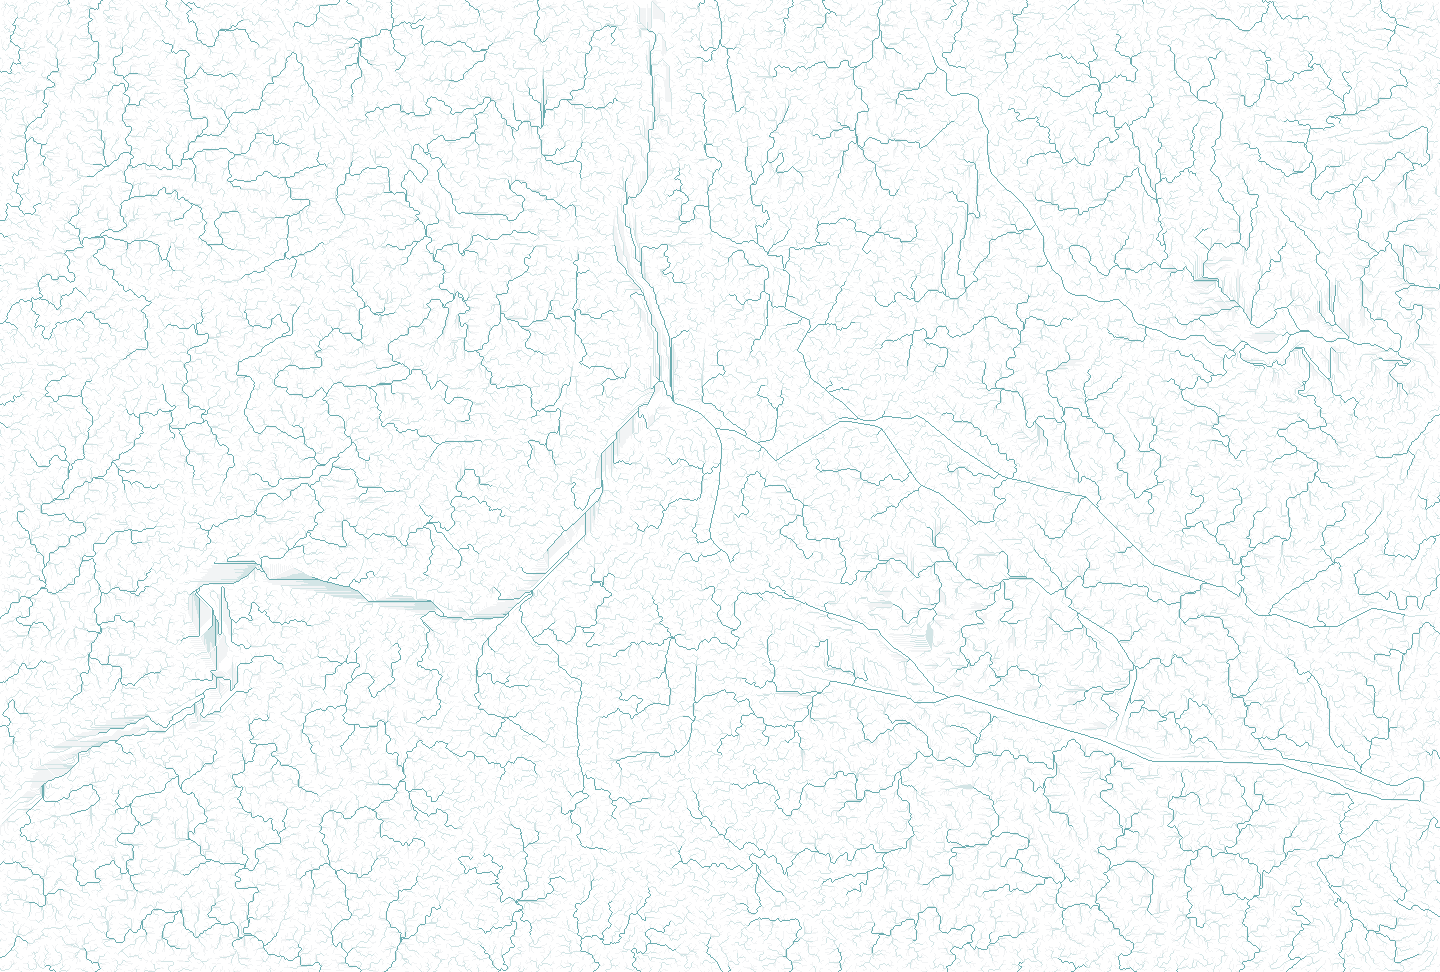
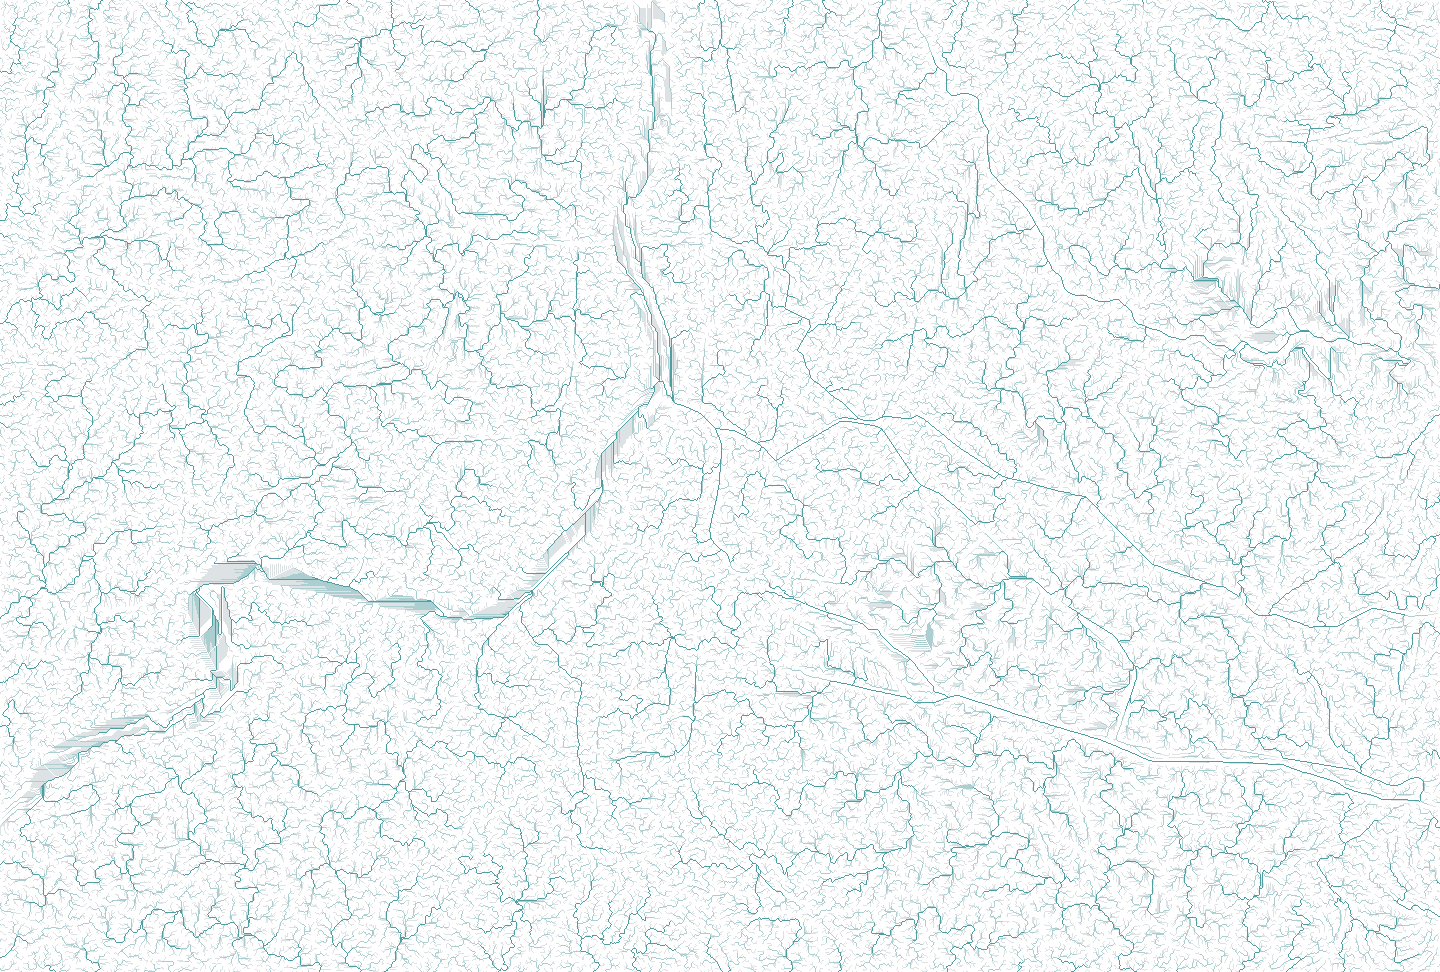
Eyes without a face

diff --git a/src/routes/kolkata-water-log/+page.svelte b/src/routes/kolkata-water-log/+page.svelte
@@ -6,7 +6,6 @@
 
 	let mapNode: HTMLDivElement;
 	let map: import('maplibre-gl').Map | null = null;
-	let markers: import('maplibre-gl').Marker[] = [];
 	let opacity = $state(100);
 	let open = $state(false);
 	let screen = $state<'index' | 'report' | 'method'>('index');
@@ -65,15 +64,28 @@
 				if (vector) try { map.addLayer({ id: 'buildings', type: 'fill-extrusion', source: vector, 'source-layer': 'building', minzoom: 14, paint: { 'fill-extrusion-color': '#d8d2c5', 'fill-extrusion-height': ['coalesce', ['get','render_height'], ['get','height'], 7], 'fill-extrusion-base': 0, 'fill-extrusion-opacity': .45 } }, labels); } catch { /* style schema varies */ }
 				map.addSource('water-model', { type: 'image', url: '/data/kolkata-water-log/accumulation.png', coordinates: [[bounds.west,bounds.north],[bounds.east,bounds.north],[bounds.east,bounds.south],[bounds.west,bounds.south]] });
 				map.addLayer({ id: 'water', type: 'raster', source: 'water-model', paint: { 'raster-opacity': opacity / 100, 'raster-resampling': 'nearest', 'raster-fade-duration': 250, 'raster-contrast': 0.35, 'raster-saturation': 0.45 } }, labels);
-				for (const report of waterLogReports) {
-					const el = document.createElement('button'); el.className = 'water-marker'; el.innerHTML = `<span>${report.name}</span>`; el.ariaLabel = `Open reports for ${report.name}`;
-					el.onclick = (event) => { event.stopPropagation(); choose(report); };
-					markers.push(new ml.Marker({ element: el, anchor: 'left', offset: [0,-10], pitchAlignment: 'viewport', rotationAlignment: 'viewport', subpixelPositioning: false }).setLngLat(report.coordinates).addTo(map));
+				// Map-native features stay locked to geographic coordinates. DOM markers
+				// visibly drift when a pitched WebGL map is panned or zoomed.
+				map.addSource('water-reports', {
+					type: 'geojson',
+					data: { type: 'FeatureCollection', features: waterLogReports.map((report, index) => ({ type: 'Feature', geometry: { type: 'Point', coordinates: report.coordinates }, properties: { index, name: report.name } })) }
+				});
+				map.addLayer({ id: 'report-points', type: 'circle', source: 'water-reports', paint: { 'circle-radius': 6, 'circle-color': '#286c72', 'circle-stroke-color': '#ffffff', 'circle-stroke-width': 2, 'circle-pitch-alignment': 'map' } });
+				map.addLayer({ id: 'report-labels', type: 'symbol', source: 'water-reports', layout: { 'text-field': ['get','name'], 'text-size': 12, 'text-font': ['Noto Sans Regular'], 'text-anchor': 'left', 'text-offset': [0.8,0], 'text-allow-overlap': false, 'text-pitch-alignment': 'viewport', 'text-rotation-alignment': 'viewport' }, paint: { 'text-color': '#173f42', 'text-halo-color': 'rgba(255,255,255,0.96)', 'text-halo-width': 2.5, 'text-halo-blur': 0.5 } });
+				const openReport = (event: import('maplibre-gl').MapLayerMouseEvent) => {
+					const reportIndex = Number(event.features?.[0]?.properties?.index);
+					if (Number.isInteger(reportIndex) && waterLogReports[reportIndex]) choose(waterLogReports[reportIndex]);
+				};
+				map.on('click', 'report-points', openReport);
+				map.on('click', 'report-labels', openReport);
+				for (const layerId of ['report-points','report-labels']) {
+					map.on('mouseenter', layerId, () => { if (map) map.getCanvas().style.cursor = 'pointer'; });
+					map.on('mouseleave', layerId, () => { if (map) map.getCanvas().style.cursor = ''; });
 				}
 			});
 			map.on('moveend', () => { if (!map) return; const c = map.getCenter(); history.replaceState(null, '', `#${map.getZoom().toFixed(2)}/${c.lat.toFixed(5)}/${c.lng.toFixed(5)}/${map.getBearing().toFixed(0)}/${map.getPitch().toFixed(0)}`); });
 		});
-		return () => { disposed = true; markers.forEach((m) => m.remove()); map?.remove(); map = null; };
+		return () => { disposed = true; map?.remove(); map = null; };
 	});
 </script>
 
@@ -118,8 +130,8 @@
 	.mark,.locate{position:absolute;z-index:10;border:1px solid #d3d3d0;border-radius:.45rem;background:#fff;box-shadow:0 6px 20px #0004}.mark{left:1rem;bottom:1rem;display:flex;align-items:center;gap:.5rem;padding:.35rem .55rem;color:inherit;text-decoration:none}.mark>b{display:grid;place-items:center;width:2.2rem;height:2.2rem;border-radius:.25rem;background:#74b1b5;color:white;font-size:1.35rem}.mark small,.mark strong{display:block}.mark small{font-size:.58rem}.mark strong{font:.7rem var(--font-mono);text-transform:uppercase}.locate{right:1rem;top:1rem;display:flex;align-items:center;gap:.4rem;padding:.5rem .7rem;color:#356f73;cursor:pointer}.locate b{font-size:1.3rem}.locate span{font-weight:700}
 	.drawer{position:absolute;z-index:20;left:50%;bottom:0;width:min(44rem,calc(100% - 1.5rem));height:min(35rem,72dvh);transform:translate(-50%,calc(100% - 5.5rem));transition:transform .4s cubic-bezier(.22,.8,.22,1);border-radius:1.2rem 1.2rem 0 0;background:white;box-shadow:0 -10px 35px #0003}.drawer.open{transform:translate(-50%,0)}.trigger{width:100%;height:5.5rem;border:0;border-radius:inherit;background:white;cursor:pointer}.trigger>b{display:block;width:3rem;height:.35rem;margin:.9rem auto 0;border-radius:1rem;background:#d4d4d4}.minimise{position:absolute;z-index:3;right:.85rem;top:.7rem;padding:.35rem .55rem;border:1px solid #d6d9d7;border-radius:999px;background:#fff;color:#397b80;font:700 .62rem var(--font-mono);cursor:pointer}.legend{display:flex;justify-content:center;align-items:center;gap:.4rem;color:#56605f;font:600 .68rem var(--font-sans)}.legend i{width:1.1rem;height:1.1rem;border-radius:.15rem}.low{background:#c4cdd0}.mid{background:#abced0}.high{background:#519ea2}.body{height:calc(100% - 5.5rem);overflow:hidden;border-top:1px solid #eee}.screen{height:100%;overflow:auto;animation:appear .3s}.screen-head{display:flex;justify-content:space-between;align-items:center;margin:0 1rem;padding:1rem 0;border-bottom:1px solid #e6e6e3}.screen-head h2{margin:0;font-size:1.7rem}.screen-head p{margin:.2rem 0;color:#767d7c}.screen-head button,.browse button{padding:.6rem .9rem;border:1px solid #ddd;border-radius:.45rem;background:#f5f5f3;font-weight:700;cursor:pointer}
 	.intro{display:grid;grid-template-columns:1.1fr .9fr;gap:1rem;padding:1rem}.eyebrow{margin:0;color:#397b80;font:700 .7rem var(--font-mono);text-transform:uppercase}.intro h2{margin:.25rem 0 .5rem;font-size:1.7rem;line-height:1.05}.intro p{color:#646c6b}.diagram{position:relative;overflow:hidden;min-height:9rem;border-radius:.5rem;background:linear-gradient(#dce8e6,#f7f5e7)}.diagram span{position:absolute;left:-10%;right:-10%;bottom:-4rem;height:9rem;border-radius:50%;background:#88aa94}.diagram b{position:absolute;z-index:2;left:43%;bottom:0;width:16%;height:55%;clip-path:polygon(35% 0,65% 0,100% 100%,0 100%);background:#5d9da8}.diagram i{position:absolute;z-index:3;top:-2rem;width:2px;height:1.5rem;background:#519ea2;animation:rain 1.5s infinite}.diagram i:nth-child(1){left:25%}.diagram i:nth-child(2){left:55%;animation-delay:.5s}.diagram i:nth-child(3){left:80%;animation-delay:1s}.browse{display:grid;grid-template-columns:.4fr .6fr;gap:1rem;padding:0 1rem 1rem}.browse>div{display:flex;flex-direction:column;align-items:flex-start;justify-content:space-between;color:#737b7a}.browse>div p{margin:0}.browse>div button{padding:.5rem 0;border:0;background:none;text-decoration:underline;text-underline-offset:5px}.browse nav{max-height:9rem;overflow:auto;border-block:1px solid #eee}.browse nav button{display:flex;justify-content:space-between;width:100%;padding:.55rem .8rem;border:0;border-bottom:1px solid #eee;border-radius:0;background:white;text-align:left}.browse nav button:hover{background:#eef3f1}.opacity{padding:.8rem 1rem;border-top:1px solid #eee}.opacity label{display:flex;justify-content:space-between;font:600 .7rem var(--font-mono)}.opacity input{width:100%;height:.45rem;appearance:none;border-radius:1rem;background:linear-gradient(to right,#74b1b5 var(--p),#e4e4e1 var(--p));accent-color:#74b1b5}.report{padding:1rem}.report h3{border-bottom:1px solid #eee;padding-bottom:.5rem}.report article{display:grid;grid-template-columns:6rem 1fr;gap:1rem;padding:.9rem;border:1px solid #ddd;border-radius:.5rem;background:#fafaf8}.report time{font:700 .75rem var(--font-mono)}.report p{color:#66706e}.report a,.credit a{color:#397b80;font-weight:700}.empty{display:grid;place-items:center;color:#8a9492}.empty b{font-size:3rem;color:#74b1b5}.method{display:grid;grid-template-columns:1fr 1fr;gap:1.5rem;padding:1.2rem;color:#596260;line-height:1.55}.credit{margin:0 1rem;padding-top:1rem;border-top:1px solid #eee;color:#747d7b;font-size:.7rem}.veil{position:fixed;z-index:1000;inset:0;display:grid;place-items:center;background:#0007}.dismiss{position:absolute;inset:0;width:100%;height:100%;border:0;background:transparent}.alert{position:relative;width:min(24rem,calc(100% - 2rem));padding:1.4rem;text-align:center;border-radius:.7rem;background:#fffffff2}.alert h2{font-size:2.5rem;margin:0}.alert button{padding:.5rem 1rem;border:1px solid #397b80;border-radius:.4rem;background:white;color:#397b80;font-weight:700}
-	:global(.water-marker){position:relative;padding:0 0 0 .65rem;border:0;background:none;cursor:pointer}:global(.water-marker:before){content:'';position:absolute;left:0;top:50%;width:.7rem;height:.7rem;transform:translateY(-50%);border:2px solid white;border-radius:50%;background:#417d77}:global(.water-marker span){display:block;padding:.28rem .62rem;border:1px solid #313e40;border-radius:999px;background:#417d77;color:white;box-shadow:0 3px 9px #0005;font:700 11px var(--font-sans);white-space:nowrap}:global(.maplibregl-ctrl-bottom-right){bottom:5.7rem}:global(.maplibregl-ctrl-attrib){font-size:9px}.spin{animation:spin .8s linear infinite}
+	:global(.maplibregl-ctrl-bottom-right){bottom:5.7rem}:global(.maplibregl-ctrl-attrib){font-size:9px}.spin{animation:spin .8s linear infinite}
 	@keyframes spin{to{transform:rotate(360deg)}}@keyframes tide{0%,100%{height:25%}50%{height:58%}}@keyframes wave{to{transform:translateX(28px)}}@keyframes bubble{0%{opacity:0;transform:translateY(0)}20%{opacity:1}100%{opacity:0;transform:translateY(-5rem)}}@keyframes rain{to{transform:translate(-1rem,11rem)}}@keyframes appear{from{opacity:0;transform:translateX(10px)}}
-	@media(max-width:700px){.page{height:calc(100dvh - 3.5rem)}.title{top:.65rem;width:calc(100% - 6.5rem);min-height:4.7rem}.title h1{font-size:1.5rem}.mark{left:.65rem;bottom:.65rem}.mark span{display:none}.locate{right:.65rem;top:.65rem}.locate span{display:none}.drawer{width:calc(100% - .75rem);height:76dvh;transform:translate(-50%,calc(100% - 5.1rem))}.trigger{height:5.1rem}.body{height:calc(100% - 5.1rem)}.legend{font-size:.58rem}.legend i{width:.9rem;height:.9rem}.intro,.method{grid-template-columns:1fr}.diagram{min-height:5rem}.browse{grid-template-columns:.38fr .62fr}.report article{grid-template-columns:1fr}:global(.maplibregl-ctrl-bottom-right){bottom:5.2rem}:global(.maplibregl-ctrl-attrib){display:none}:global(.water-marker span){font-size:0;width:.65rem;height:.65rem;padding:.3rem}}
+	@media(max-width:700px){.page{height:calc(100dvh - 3.5rem)}.title{top:.65rem;width:calc(100% - 6.5rem);min-height:4.7rem}.title h1{font-size:1.5rem}.mark{left:.65rem;bottom:.65rem}.mark span{display:none}.locate{right:.65rem;top:.65rem}.locate span{display:none}.drawer{width:calc(100% - .75rem);height:76dvh;transform:translate(-50%,calc(100% - 5.1rem))}.trigger{height:5.1rem}.body{height:calc(100% - 5.1rem)}.legend{font-size:.58rem}.legend i{width:.9rem;height:.9rem}.intro,.method{grid-template-columns:1fr}.diagram{min-height:5rem}.browse{grid-template-columns:.38fr .62fr}.report article{grid-template-columns:1fr}:global(.maplibregl-ctrl-bottom-right){bottom:5.2rem}:global(.maplibregl-ctrl-attrib){display:none}}
 	@media(prefers-reduced-motion:reduce){.fill,.fill:before,.fill i,.diagram i,.loading i{animation:none}.drawer{transition:none}}
 </style>

diff --git a/scripts/prepare-kolkata-water-log.py b/scripts/prepare-kolkata-water-log.py
@@ -56,9 +56,12 @@ def classify(flow_path: Path, output_path: Path, image_path: Path, metadata_path
 
 		rgba = np.zeros((4, classes.shape[0], classes.shape[1]), dtype="uint8")
 		palette = {
-			1: (196, 205, 208, 55),
-			2: (171, 206, 208, 135),
-			3: (81, 158, 162, 215),
+			# Keep every classified channel legible over a detailed street map.
+			# The earlier alpha values made the most common class effectively
+			# disappear once composited by a WebGL raster layer.
+			1: (151, 194, 198, 150),
+			2: (93, 169, 175, 220),
+			3: (28, 119, 128, 255),
 		}
 		for value, color in palette.items():
 			mask = classes == value
